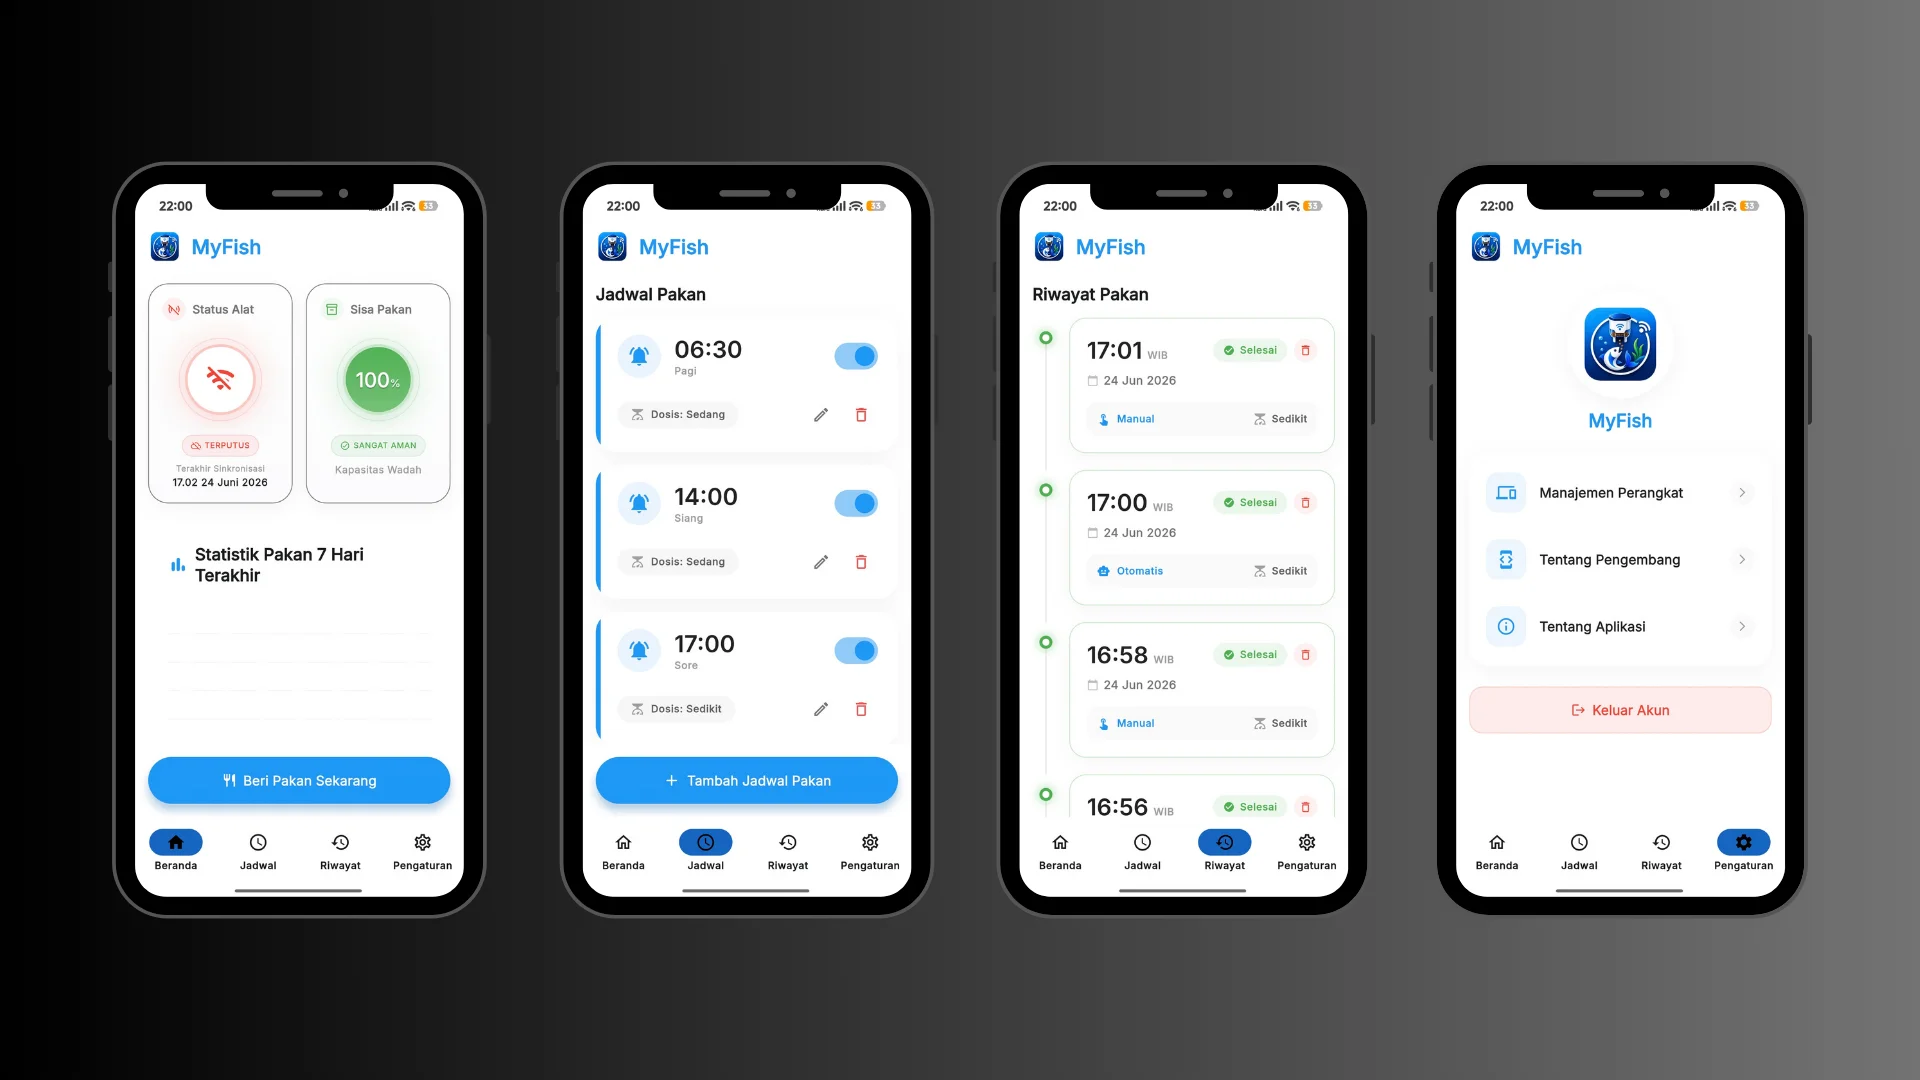
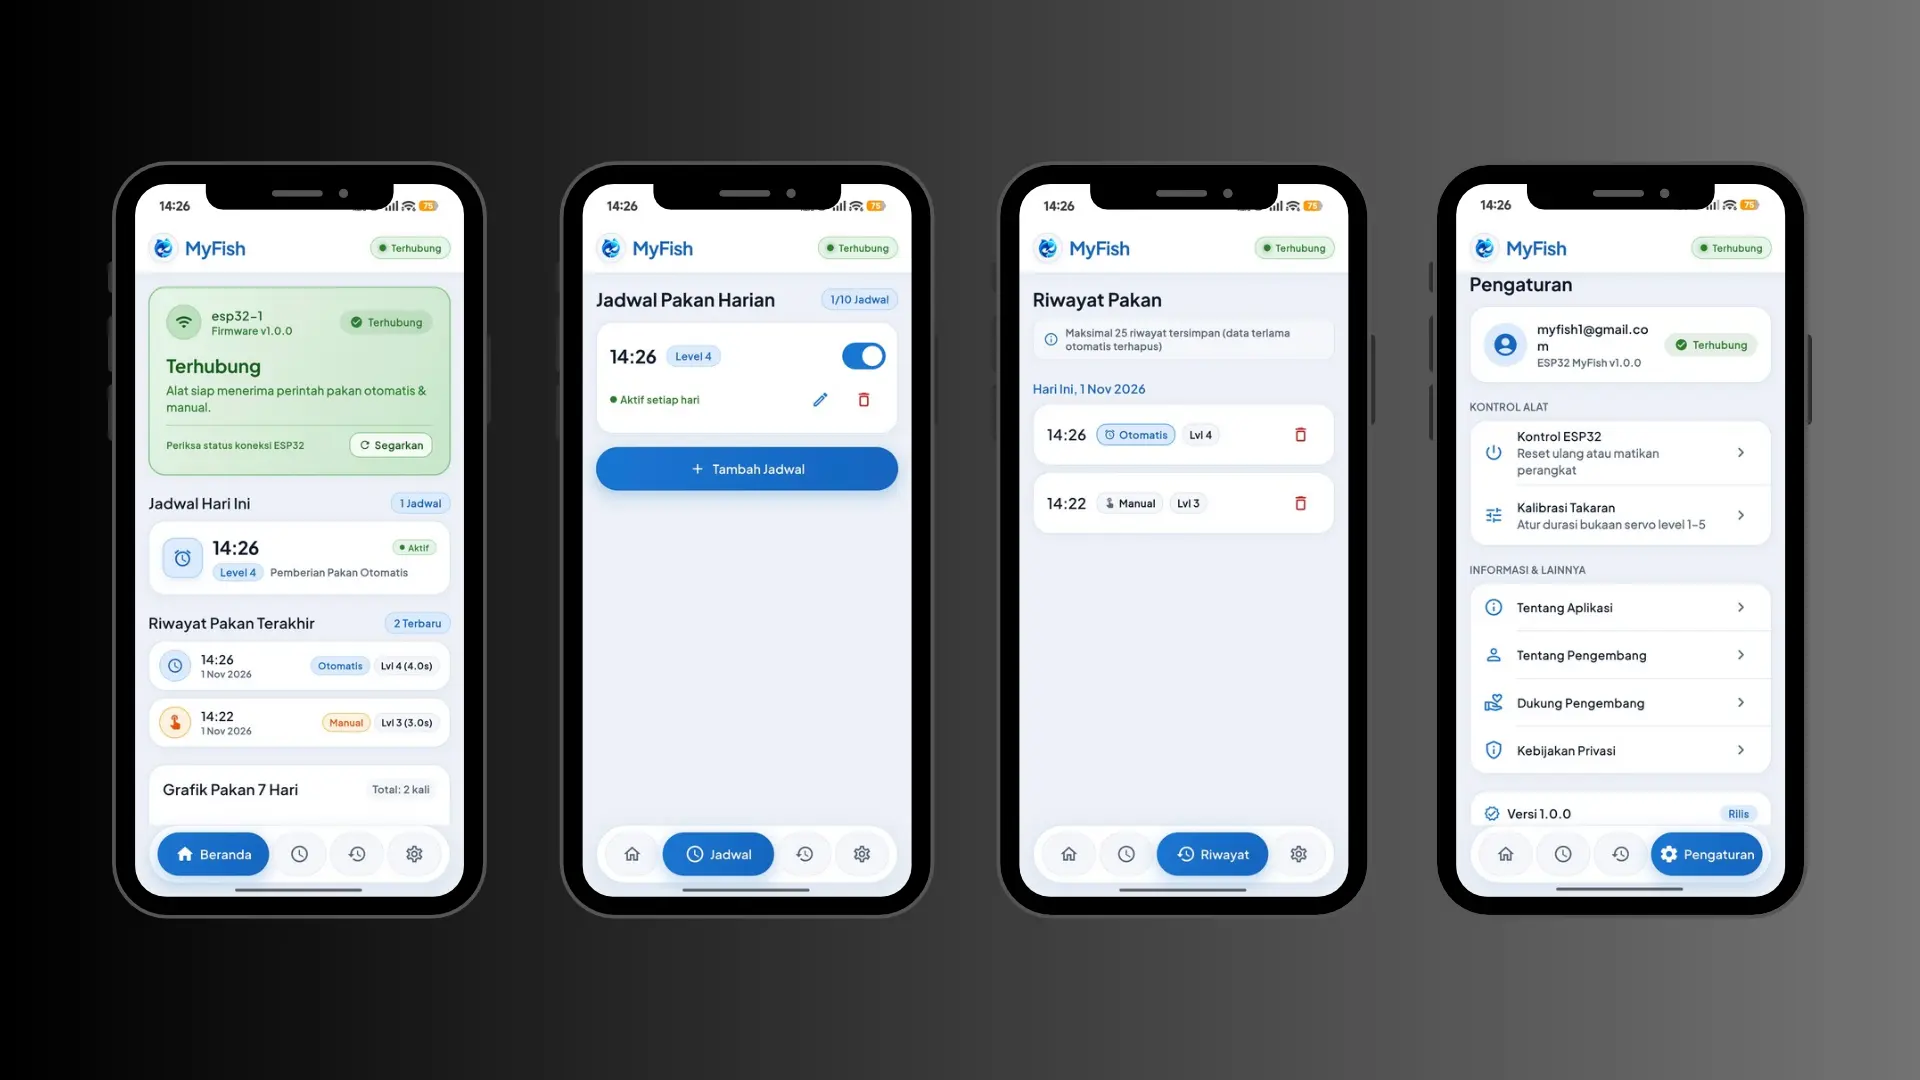
Update

diff --git a/src/data/portfolioData.ts b/src/data/portfolioData.ts
@@ -72,7 +72,8 @@ export const portfolioData: PortfolioData = {
       period: "2026 – Sekarang",
       location: "Jl. Jend. A. Yani II No.18, RT.05/RW.04, Tanah Sareal, Kota Bogor, Jawa Barat 16161.",
       bulletPoints: [
-        "Merancang dan membangun website resmi Koperasi Produsen Dirga Pangan Mandiri."
+        "Merancang dan membangun website resmi Koperasi Produsen Dirga Pangan Mandiri.",
+        "Menjadi salah satu koperasi."
       ],
       technologies: ["Next JS", "Typescript", "TailwindCSS"],
       logo: "/images/experience/koperasi-produsen.png"
@@ -177,7 +178,7 @@ export const portfolioData: PortfolioData = {
       description:
         "Aplikasi Monitoring & Kontrol Pemberi Pakan Ikan Otomatis.",
       mockupImage: "/images/projects/myfish.webp",
-      technologies: ["Flutter", "Firebase", "Google Stitch"],
+      technologies: ["Flutter", "Firebase", "ESP32", "Motor Servo"],
       projectUrl: "https://drive.google.com/drive/folders/1FhioI8ia7Oa8s7rQgqq_cohsXmGCVRXW?usp=drive_link",
     },
     {
